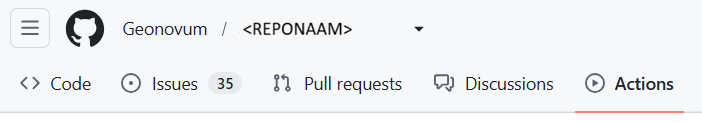
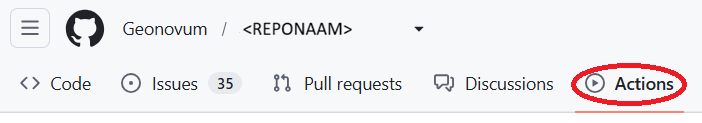
typo en meer tekst

Changed region(s): [[0.8077, 0.5122, 0.9872, 0.878]]

diff --git a/docs/ReSpec/ReSpec-publiceren.md b/docs/ReSpec/ReSpec-publiceren.md
@@ -32,44 +32,49 @@ Zie ook: [README bij Geonovum ReSpec template](https://github.com/Geonovum/NL-Re
 - dat wil zeggen, 
     - `index.html` in de root folder, 
     - `config.js` in `/js` folder, 
-    - afbeeldingen (of anders?) in `/media` en/of `/data` folder (**+ subdirectories** zoals `Images`);
+    - afbeeldingen e.d. in `/media` en/of `/data` folder (**+ subdirectories** zoals `Images`); **NB** zet géén andere bestanden onder `/media` en/of `/data` folder (+subdirectories) aangezien deze dan ook mee gaan bij het publiceren.
 - de github repository mag maar één ReSpec document bevatten.
 
 ### Controles
-- **HTML** proof/validation, algemene HTML controle:
+
+Er zijn 3 soorten controles.
+- Proof **HTML**, 'Validate publication HTML'. Dit is een algemene HTML controle voor:
     - Favicon, 
     - Images, 
     - Links,
     - OpenGraph, 
     - Scripts        
-- **WCAG** check, controle op webtoegankelijkheid regels (-> WCAG rapport).
-- **publication links**, `publicatiepreflight`, is het document gereed voor publicatie?  
-<br/>  
-- Resultaten controle zijn te vinden onder 'Actions'.  
-  <!-- ![Github actions in balk](media/github-actions.png) -->
-  <figure id="github-actions">
-    <img src="../media/github-actions.png" alt="" style="max-width:600px; height:auto;">
-    <figcaption>Github actions in balk</figcaption>
-  </figure>
-  
-- Kies hier de commit die je gedaan hebt en je ziet na klikken op 'build > Snapshot + Checks'  
-  <!-- ![build > Snapshot + Checks](media/snapshot-checks.png)   -->
-  <img src="../media/snapshot-checks.png" alt="build > Snapshot + Checks" style="max-width:600px; height:auto;">
-- 'Snapshot + Checks' stappen  
-  <!-- !['Snapshot + Checks details'](media/snapshot-checks-details.png) -->
-  <img src="../media/snapshot-checks-details.png" alt="Snapshot + Checks details" style="max-width:600px; height:auto;">  
+- **WCAG** check, 'Run WCAG x.x check'. Dit is de controle op webtoegankelijkheid regels, denk aan visuele beperkingen. Dit resuleert in een WCAG rapport.
+- Lychee **publication links**, 'Validate publication links'. Dit is een controle van verwijzingen. 
 
-    - 'Validate publication HTML', 'Run WCAG x.x check' en 'Validate publication links'  
-      !['Snapshot + Checks: HTML, WCAG, publicatielinks'](media/snapshot-checks-details-2.png)  
-    - publicatiegereed ja/nee?  
-      <!-- !['Snapshot + Checks: summary publicatiegereed'](media/summary-preflight.png) -->
-      <img src="../media/summary-preflight.png" alt="Snapshot + Checks: summary publicatiegereed" style="max-width:400px; height:auto;">  
-    - evt. artefacts/artifacts bekijken  
-      !['artefacts'](media/artefacts.png)
+Proof HTML en de Lychee-linkcontrole zijn blokkerend en bepalen het resultaat van `Publicatiegereed: ja/nee`.
+
+
+### Controle resultaten
+
+- De resultaten van de controles zijn te vinden onder 'Actions' op Github.  
+  <!-- ![Github actions in balk](media/github-actions.png) -->
+  <img src="../media/github-actions.png" alt="Github actions in balk" style="max-width:400px; height:auto;"/>
+  
+- Kies hier de commit die je gedaan hebt, en klik voor details op 'build > Snapshot + Checks'. Dit geeft de 'Snapshot + Checks' stappen. Grijze vinkjes zijn oké. Rode kruizen vragen om aandacgt voor zaken om op te lossen.
+  <!-- !['Snapshot + Checks details'](media/snapshot-checks-details.png) -->
+  <img src="../media/snapshot-checks-details.png" alt="Snapshot + Checks details" style="max-width:600px; height:auto;"/>  
+  !['Snapshot + Checks: HTML, WCAG, publicatielinks'](media/snapshot-checks-details-2.png)  
+
+- publicatiegereed ja/nee?  
+    <!-- !['Snapshot + Checks: summary publicatiegereed'](media/summary-preflight.png) -->
+    <img src="../media/summary-preflight.png" alt="Snapshot + Checks: summary publicatiegereed" style="max-width:400px; height:auto;">  
+    
+- evt. artefacts/artifacts bekijken  
+    !['artefacts'](media/artefacts.png)
+
 
 ### Typische fouten
-- referentiefout id (#`<id>` waarvan er geen element is met id="`<id>`"). !['broken-link'](media/broken-link.png) 
-- broken link (?), bijv `internally linking to docs.geostandaarden.nl/xxx/yyy/, which does not exist`. Hier ontbreekt het protocol `https://`.
+
+- referentiefout id (#`<id>` waarvan er geen element is met id="`<id>`").
+ <!-- !['broken-link'](media/broken-link.png)  -->
+  <img src="../media/broken-link.png" alt="broken-link" style="max-width:400px; height:auto;"> 
+- protocol ontbreekt in url, bijv.  `https://`. Melding `internally linking to docs.geostandaarden.nl/xxx/yyy/, which does not exist`.
 - `error: Duplicate ID “xxx”.`, dubbele id's, bijvoorbeeld meerdere keer id="col1" bij tabellen gegenereerd bij word2respec.
 - ongeldige html-tags, bijvpoorbeeld `<h7>` of `<alias>`. Dit is typisch voor een oudere imvertor-versie. Oplossing is om opnieuw output met imvertor te creëren.
 
@@ -88,7 +93,7 @@ Vul de velden als volgt in:
 
 Door de knop 'Publish release' in te drukken wordt het publicatieproces gestart. Dit kan enige tijd duren. Afhankelijk van of het een test release is of gebeurt het volgende:
 
-- Bij een test-release wordt de publicatie automatisch goedgekeurd en gepubliceerd op <https://test.docs.geostandandaarden.nl>. 
+- Bij een test-release wordt de publicatie automatisch goedgekeurd en gepubliceerd op <https://test.docs.geostandaarden.nl>. 
 - Bij een officële release resulteert de publicatie in een pull request op <https://github.com/Geonovum/docs.geostandaarden.nl>. Eén van de reviewers checkt de publicatie en na goedkeuring verschijnt deze automatisch.
 
 Voor deze automatische publicatie gelden de volgende eisen, naast uitgangspunten en controles zoals beschreven bij **stap 2**: GEEN?
